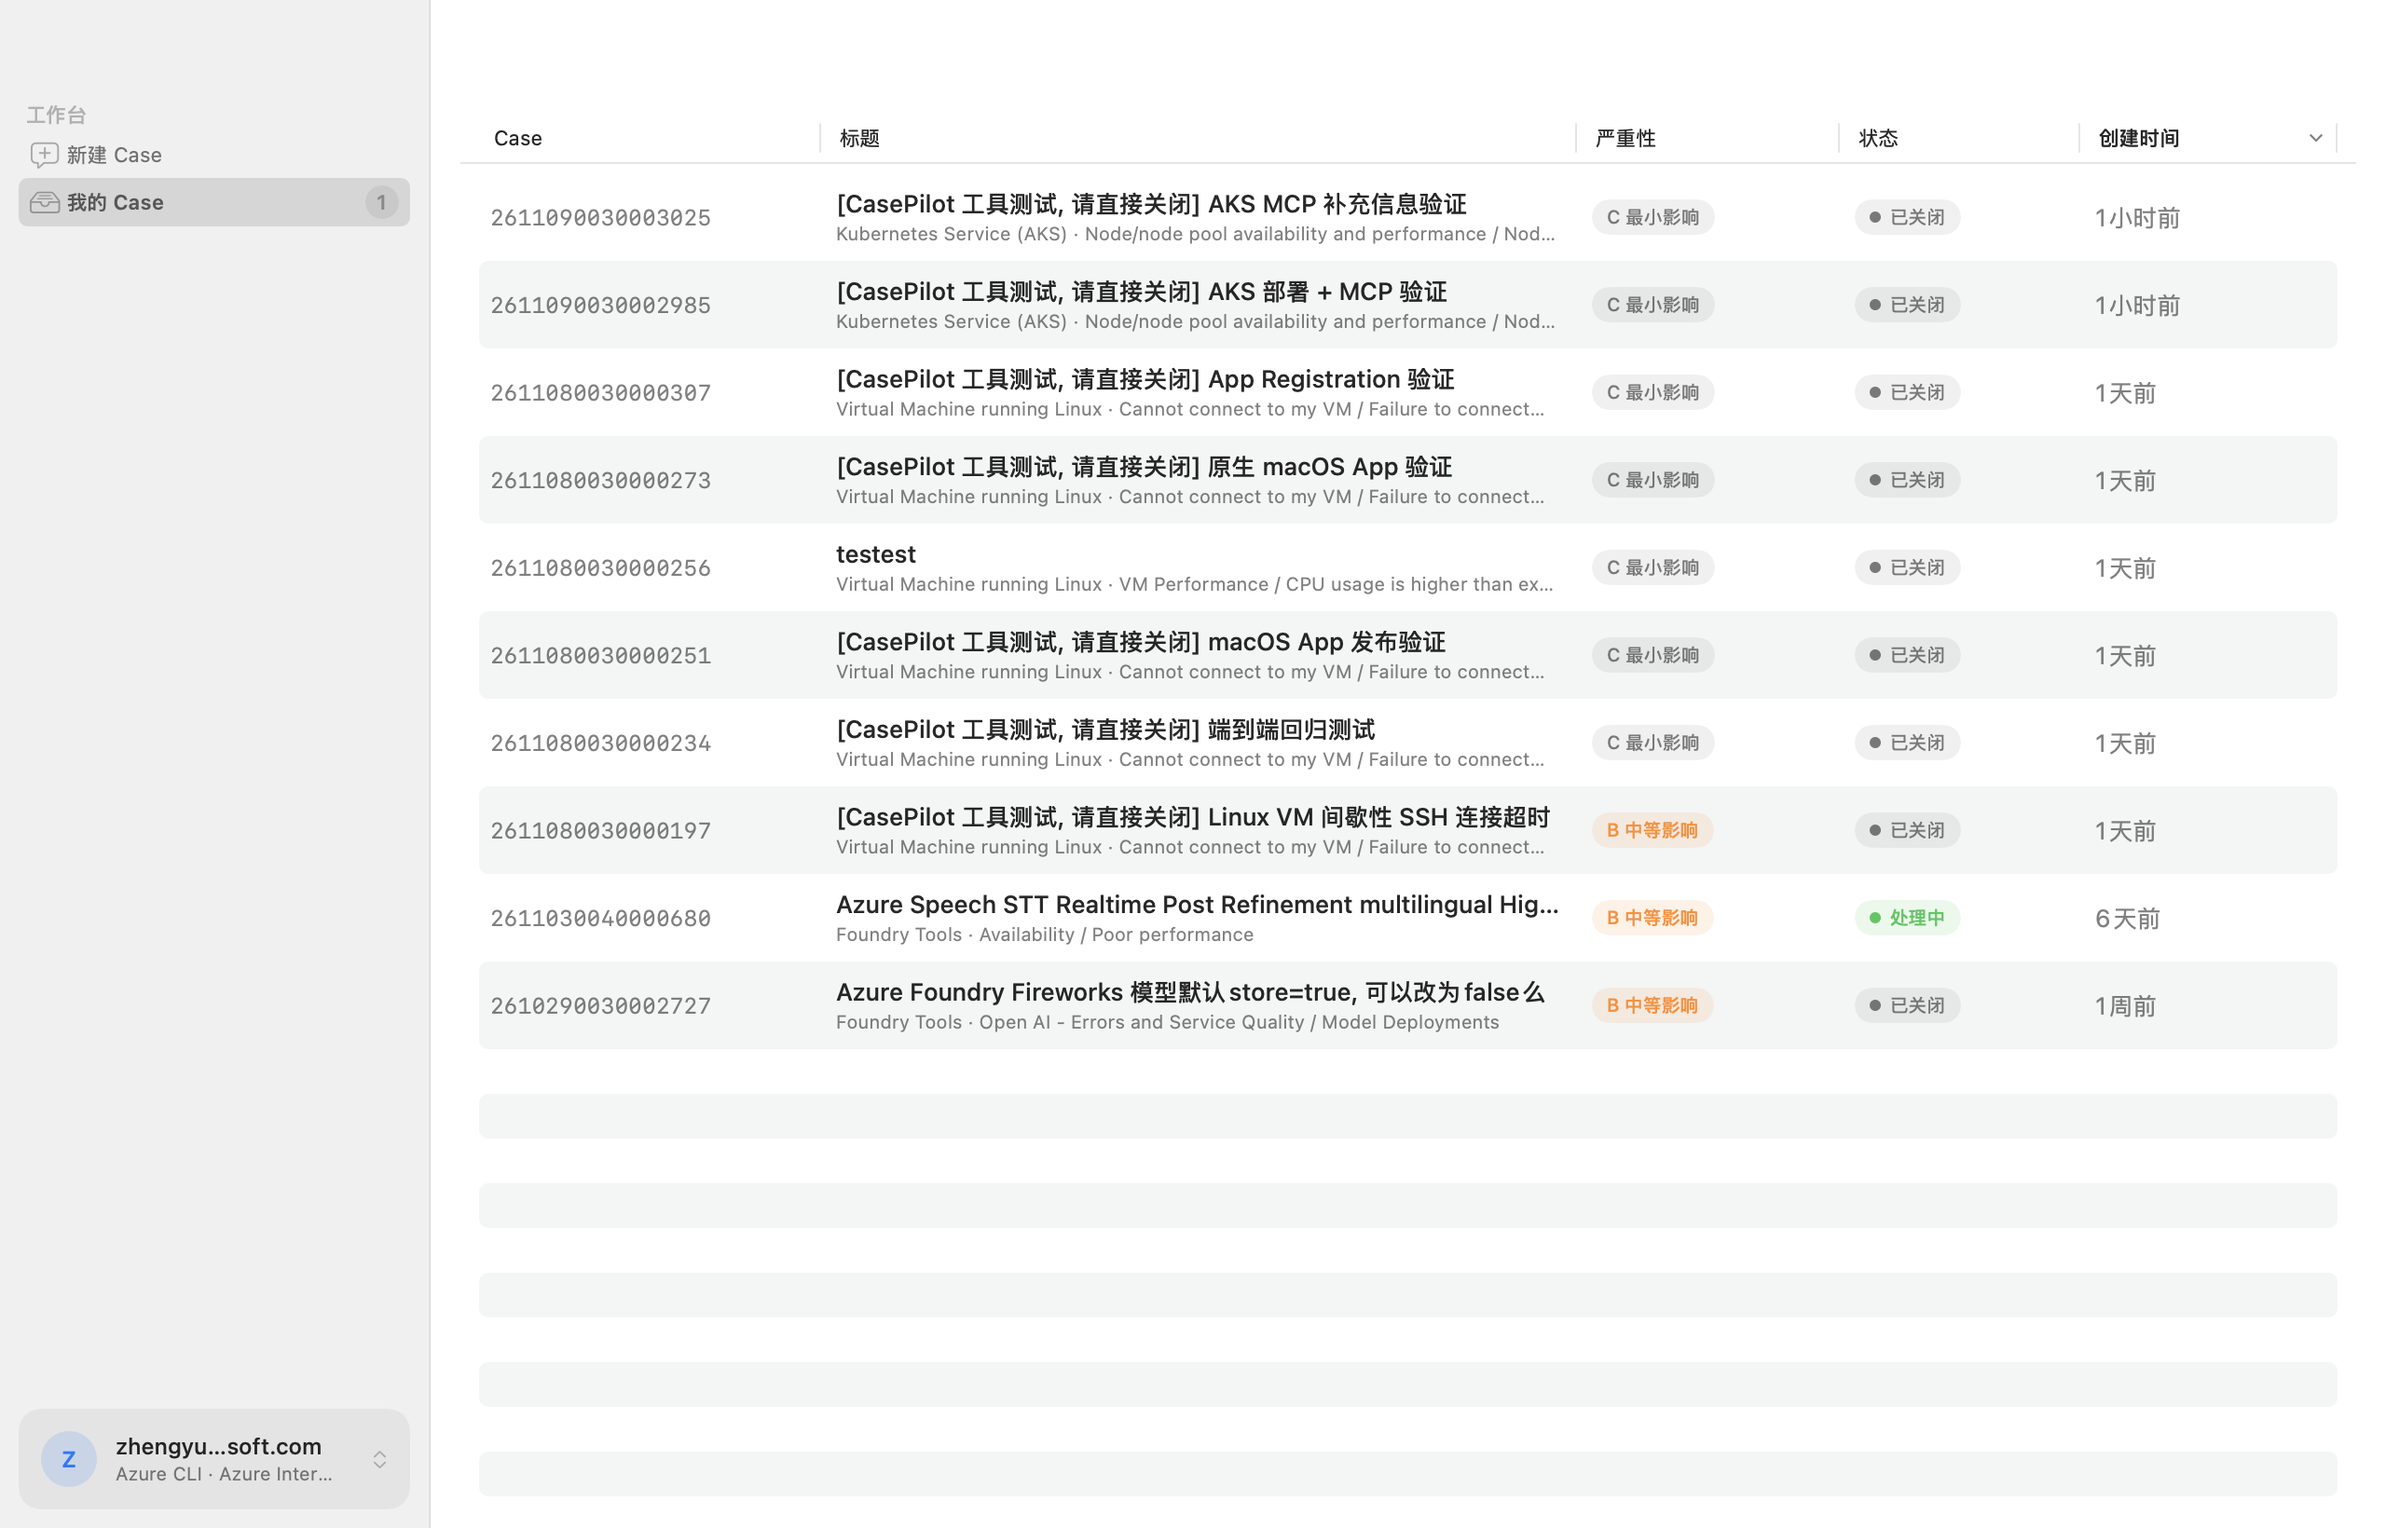
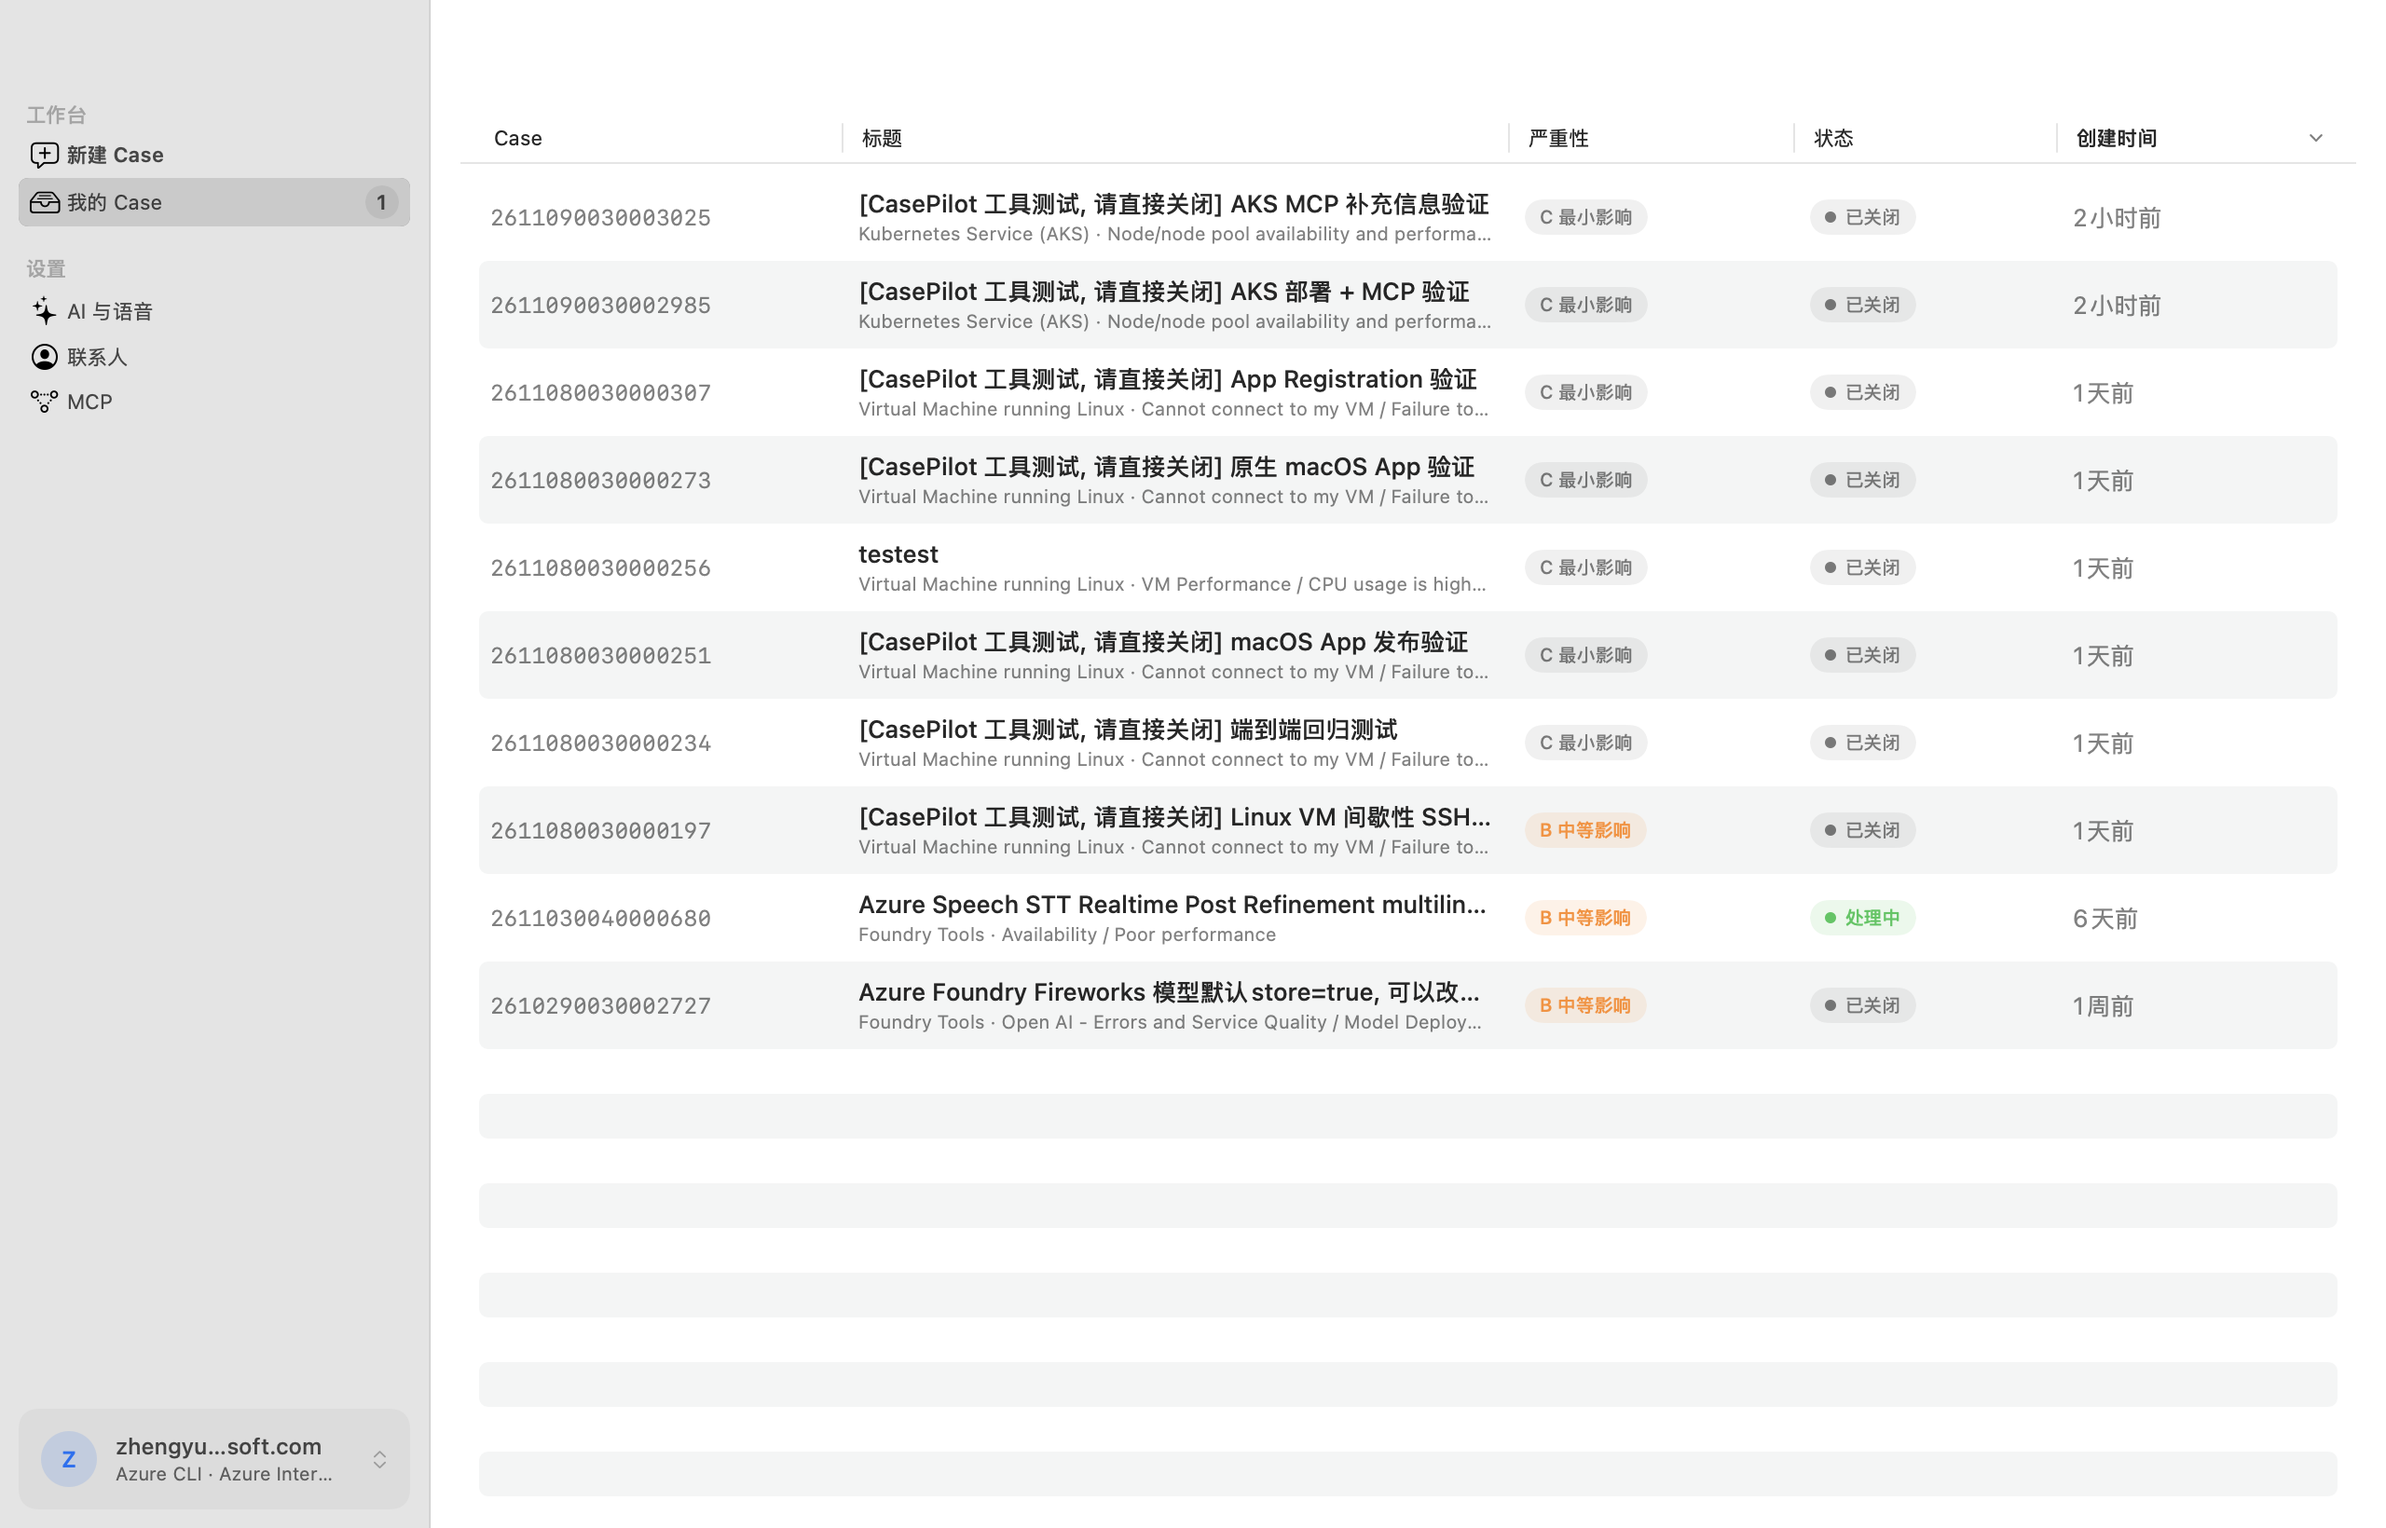
fix(ui): Liquid Glass 仅用于系统导航层, 内容区恢复不透明; 清理无用组件与 PyInstaller 脚本; README 带截图重写

diff --git a/macos/Sources/CasePilot/Components.swift b/macos/Sources/CasePilot/Components.swift
@@ -1,62 +1,5 @@
 import SwiftUI
 
-struct Card<Content: View>: View {
-    let step: Int?
-    let title: String
-    var done: Bool = false
-    var trailing: AnyView? = nil
-    @ViewBuilder var content: Content
-
-    var body: some View {
-        VStack(alignment: .leading, spacing: 12) {
-            HStack(spacing: 10) {
-                if let step {
-                    Text("\(step)").font(.caption.weight(.semibold)).frame(width: 26, height: 26)
-                        .background(done ? Color.accentColor : Color.secondary.opacity(0.12), in: RoundedRectangle(cornerRadius: 8))
-                        .foregroundStyle(done ? .white : .secondary)
-                        .animation(.easeOut(duration: 0.2), value: done)
-                }
-                Text(title).font(.headline)
-                Spacer()
-                trailing
-            }
-            content
-        }
-        .padding(20)
-        .frame(maxWidth: .infinity, alignment: .leading)
-        .background(.background, in: RoundedRectangle(cornerRadius: 20))
-        .overlay(RoundedRectangle(cornerRadius: 20).strokeBorder(.separator))
-    }
-}
-
-struct FieldLabel: View {
-    let text: String
-    var optional = false
-    init(_ text: String, optional: Bool = false) { self.text = text; self.optional = optional }
-    var body: some View {
-        HStack(spacing: 4) {
-            Text(text).font(.callout.weight(.medium))
-            if optional { Text("可选").font(.caption).foregroundStyle(.tertiary) }
-        }
-    }
-}
-
-struct LabeledField: View {
-    let label: String
-    @Binding var text: String
-    var prompt = ""
-    var optional = false
-    init(_ label: String, text: Binding<String>, prompt: String = "", optional: Bool = false) {
-        self.label = label; _text = text; self.prompt = prompt; self.optional = optional
-    }
-    var body: some View {
-        VStack(alignment: .leading) {
-            FieldLabel(label, optional: optional)
-            TextField(prompt, text: $text).textFieldStyle(.roundedBorder)
-        }
-    }
-}
-
 struct Badge: View {
     let text: String
     var tint: Color = .secondary
@@ -142,7 +85,7 @@ extension Date {
     var full: String { formatted(.dateTime.year().month(.twoDigits).day(.twoDigits).hour().minute().locale(Locale(identifier: "zh_CN"))) }
 }
 
-/// Liquid Glass (macOS 26+), 低版本回退为系统材质; 仅用于浮层/强调控件, 不铺满整窗
+/// Liquid Glass 只用于浮于内容之上的控件 (macOS 26+); 低版本回退系统材质。内容区不使用
 extension View {
     @ViewBuilder func glassCard(cornerRadius: CGFloat = 16) -> some View {
         if #available(macOS 26.0, *) {

diff --git a/macos/Sources/CasePilot/CasePilotApp.swift b/macos/Sources/CasePilot/CasePilotApp.swift
@@ -11,7 +11,6 @@ struct CasePilotApp: App {
                 .environment(store)
                 .frame(minWidth: 1000, minHeight: 680)
                 .preferredColorScheme(.light)
-                .windowMaterial()
         }
         .windowToolbarStyle(.unified(showsTitle: true))
         .defaultSize(width: 1280, height: 820)
@@ -98,7 +97,6 @@ struct Sidebar: View {
                 }
             }
             .listStyle(.sidebar)
-            .scrollContentBackground(.hidden)
             if let id = store.identity {
                 IdentityMenu {
                     HStack(spacing: 10) {
@@ -113,7 +111,7 @@ struct Sidebar: View {
                         Image(systemName: "chevron.up.chevron.down").font(.caption).foregroundStyle(.tertiary)
                     }
                     .padding(12)
-                    .glassCard(cornerRadius: 12)
+                    .background(.fill.quaternary, in: RoundedRectangle(cornerRadius: 10))
                     .contentShape(RoundedRectangle(cornerRadius: 12))
                 }
                 .padding(10)
@@ -200,12 +198,5 @@ struct SettingsRoot: View {
             MCPSettingsView().tabItem { Label("MCP", systemImage: "point.3.connected.trianglepath.dotted") }.tag(SettingsTab.mcp)
         }
         .onReceive(NotificationCenter.default.publisher(for: .selectSettingsTab)) { if let t = $0.object as? SettingsTab { tab = t } }
-    }
-}
-
-extension View {
-    /// 窗口背景使用系统材质 (macOS 15+); 14 保持默认
-    @ViewBuilder func windowMaterial() -> some View {
-        if #available(macOS 15.0, *) { self.containerBackground(.thinMaterial, for: .window) } else { self }
     }
 }

diff --git a/macos/Sources/CasePilot/CreateCaseView.swift b/macos/Sources/CasePilot/CreateCaseView.swift
@@ -83,8 +83,9 @@ struct CreateCaseView: View {
                 TextField("标题", text: $draft.title, prompt: Text("一句话说明问题"))
                     .onChange(of: draft.title) { _, v in if v.count > 200 { draft.title = String(v.prefix(200)) } }
                 TextEditor(text: $draft.description)
-                    .overlay(alignment: .bottomTrailing) { MicButton(text: $draft.description).padding(6) }
                     .font(.body).frame(minHeight: 200)
+                    .scrollContentBackground(.hidden)
+                    .overlay(alignment: .bottomTrailing) { MicButton(text: $draft.description).padding(6) }
                     .overlay(alignment: .topLeading) {
                         if draft.description.isEmpty {
                             Text("现象、影响、发生时间 (含时区)、错误信息 / Request ID")
@@ -131,7 +132,6 @@ struct CreateCaseView: View {
             }
         }
         .formStyle(.grouped)
-        .scrollContentBackground(.hidden)
         .frame(maxWidth: 720)
         .frame(maxWidth: .infinity)
         .navigationTitle("新建 Case")

diff --git a/macos/Sources/CasePilot/HistoryView.swift b/macos/Sources/CasePilot/HistoryView.swift
@@ -72,23 +72,6 @@ struct HistoryView: View {
 
 extension TicketSummary { var sortDate: Date { created ?? .distantPast } }
 
-struct Stat: View {
-    let title: String, value: Int, symbol: String
-    var tint: Color = .primary
-    var body: some View {
-        HStack(spacing: 10) {
-            Image(systemName: symbol).font(.title3).foregroundStyle(tint == .primary ? .secondary : tint).frame(width: 24)
-            VStack(alignment: .leading, spacing: 0) {
-                Text("\(value)").font(.title2.weight(.semibold)).monospacedDigit().contentTransition(.numericText())
-                Text(title).font(.caption).foregroundStyle(.secondary)
-            }
-            Spacer(minLength: 0)
-        }
-        .padding(.horizontal, 14).padding(.vertical, 10)
-        .background(.background.secondary, in: RoundedRectangle(cornerRadius: 12))
-    }
-}
-
 struct TicketDetailView: View {
     @Environment(AppStore.self) private var store
     @Environment(\.openURL) private var openURL

diff --git a/casepilot/core.py b/casepilot/core.py
@@ -21,8 +21,7 @@ from pathlib import Path
 SUPPORT_API = "2024-04-01"
 # 从 Finder 启动 .app 时 PATH 很精简, 补上 az 常见安装位置
 os.environ["PATH"] = os.pathsep.join([os.environ.get("PATH", ""), "/opt/homebrew/bin", "/usr/local/bin"])
-# PyInstaller 打包后资源位于 sys._MEIPASS
-STATIC = Path(getattr(sys, "_MEIPASS", Path(__file__).resolve().parent.parent)) / "static"
+STATIC = Path(__file__).resolve().parent.parent / "static"
 # 设备码登录使用 Azure CLI 的公共 Client ID, 客户无需自建 App Registration
 DEVICE_CLIENT_ID = os.environ.get("CASEPILOT_CLIENT_ID", "04b07795-8ddb-461a-bbee-02f9e1bf7b46")
 

diff --git a/docs/UI_OPTIMIZATION_CHANGELOG.md b/docs/UI_OPTIMIZATION_CHANGELOG.md
@@ -13,3 +13,13 @@
 |---|---|---|
 | AI/语音配置入口难找 | 侧边栏新增「设置」分组 (AI 与语音 / 联系人 / MCP) 直达对应页; AI 帮写标题旁显示「模型 · 认证方式」按钮; AI 报错时出现「配置 AI」按钮; 设置默认打开 AI 页 | CasePilotApp.swift, AIComposer.swift |
 | 缺少 macOS 玻璃质感 | 窗口背景系统材质 (macOS 15+), 侧边栏/表单透出背景; 身份卡与登录卡使用 Liquid Glass (macOS 26+, 低版本回退 regularMaterial)。不对每张卡片铺玻璃, 保证可读性 | Components.swift, CasePilotApp.swift, CreateCaseView.swift, LoginView.swift |
+
+# v2.3.0 · Liquid Glass 系统性校正
+原则: **玻璃属于浮于内容之上的导航/控件层, 内容层必须是不透明、可读的表面** (Apple HIG: Liquid Glass 用于 toolbar、sidebar、浮层控件)。
+| 问题 (v2.2.0) | 根因 | 修改 |
+|---|---|---|
+| 整个内容区呈灰色毛玻璃, 文字对比度下降 | 给 `.window` 容器加了 thinMaterial, 并隐藏了 Form 背景 | 移除窗口材质与 Form 背景隐藏; 内容恢复系统 grouped 表面 |
+| 描述框是突兀的白块 | TextEditor 自带不透明背景, 在透明表单上显得孤立 | TextEditor 隐藏自身背景, 融入 Form 行 |
+| 侧边栏身份卡自定义玻璃与系统侧边栏玻璃叠加 | 玻璃叠玻璃 | 侧边栏交还系统 (macOS 26 自动 Liquid Glass), 身份卡用 `.fill.quaternary` |
+| 保留 | — | 工具栏、侧边栏、Inspector 由系统渲染 Liquid Glass; 仅登录卡 (浮于空背景) 使用 `glassEffect` |
+清理: 删除未使用组件 `Card` / `FieldLabel` / `LabeledField` / `Stat`、窗口材质扩展、PyInstaller 打包脚本 `build_mac.sh` 及其路径逻辑。

diff --git a/README.md b/README.md
@@ -4,6 +4,21 @@
 
 快速创建和管理 Azure Support Case: 原生 Mac App、服务器 / AKS 部署与 MCP。
 
+<p>
+  <img src="docs/screenshots/new-case.png" width="49%" alt="新建 Case (AI 帮写)">
+  <img src="docs/screenshots/my-cases.png" width="49%" alt="我的 Case 与详情">
+</p>
+
+## 项目结构
+| 路径 | 说明 |
+|---|---|
+| `macos/` | 原生 SwiftUI App (主产品) |
+| `casepilot/` | Python 核心: 认证、Support API、AI、支持计划、MCP |
+| `server.py` + `static/` | Web 版 / 服务器模式 (本地或容器) |
+| `deploy/` | Dockerfile 配套的 Helm Chart 与 AKS 一键脚本 |
+| `tests/` | 服务端单元测试 |
+| `docs/` | UI 审计、设计规范、改动记录与截图 |
+
 ## 下载安装 (推荐)
 1. 到 [Releases](https://github.com/ZenoRewn/Azure_CasePilot/releases/latest) 下载 `CasePilot-*-macOS-universal.zip` 并解压
 2. **首次打开前必须执行一次** (App 未经 Apple 公证, 否则会提示"已损坏"或"无法验证开发者"):
@@ -41,7 +56,7 @@
 ```bash
 cd macos
 swift test                    # 单元测试
-./build_app.sh v2.2.0         # 产物: dist/CasePilot-v2.2.0-macOS-universal.zip
+./build_app.sh v2.3.0         # 产物: dist/CasePilot-v2.3.0-macOS-universal.zip
 ```
 
 ## MCP (Claude Desktop / VS Code / Copilot 等)

diff --git a/docs/UI_VERIFICATION.md b/docs/UI_VERIFICATION.md
@@ -6,3 +6,5 @@
 - **未验证**: 右键菜单与双击 (无自动化点击); 设置页 Key 实际调用 (你的 AI 资源均禁用本地认证, 只能验证错误 Key 返回 401); 深色模式 (按要求固定浅色)
 
 - v2.2.0 截图为离屏渲染 (cacheDisplay), **无法呈现材质/玻璃透明效果**; 玻璃效果需在真实窗口中目视确认 (未验证)。
+
+- v2.3.0: 真实窗口截图需要「屏幕录制」权限 (未授予), README 截图为离屏渲染, 不包含系统玻璃效果; Liquid Glass 观感请以真实窗口为准 (未验证)。
